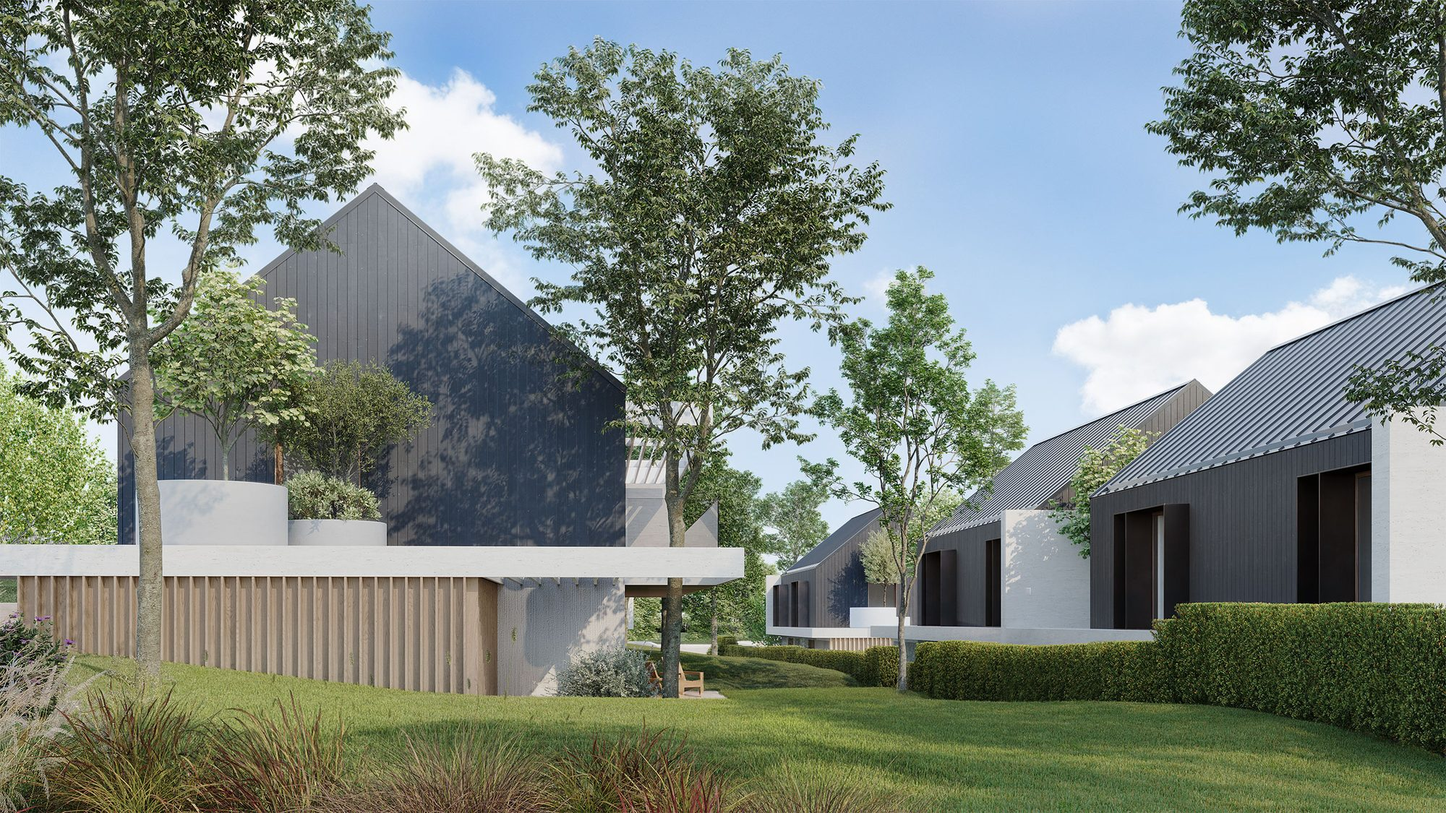
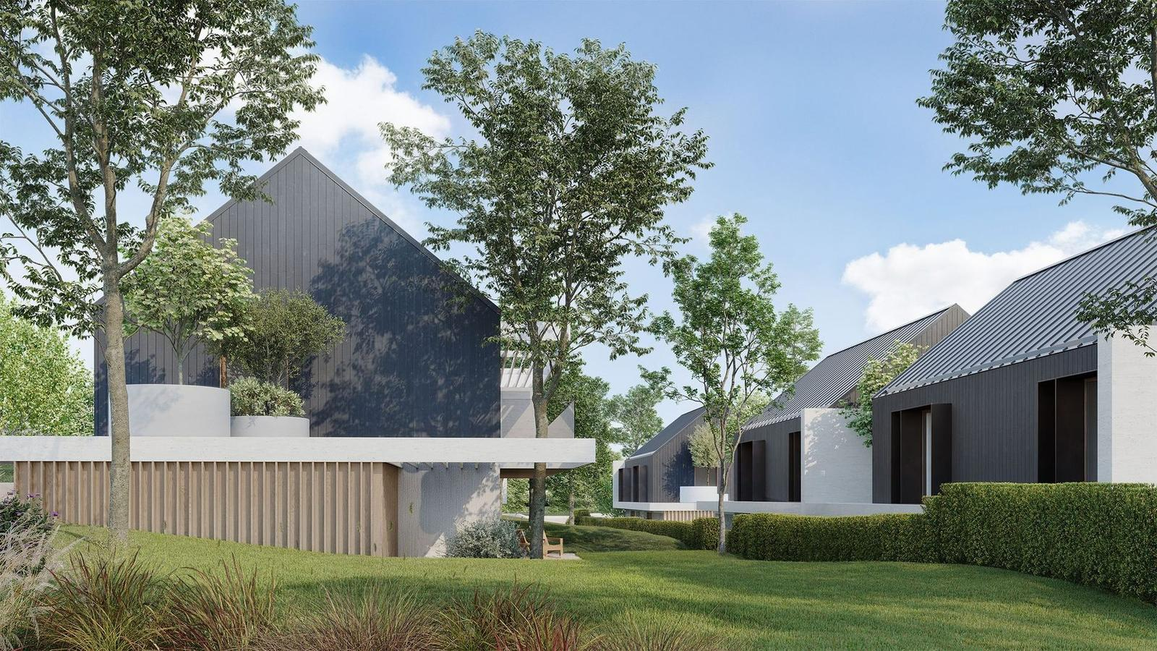
Add Nyon/Geneva proximity to villas intro, drastically compress hero and aerial images, and enable native lazy loading

diff --git a/index.html b/index.html
@@ -91,7 +91,7 @@
     <div class="container text-center">
       <h2 class="sub-title" data-i18n="villas.eyebrow">LES VILLAS</h2>
       <h1 class="main-title" data-i18n="villas.title">L’équilibre parfait entre style et confort</h1>
-      <p class="section-text" data-i18n="villas.intro"><strong>Dernières villas disponibles du domaine :</strong> les <strong>Villas 1, 2 et 3</strong> représentent les ultimes opportunités d'acquérir une propriété d'exception à Trélex. Situées en position dominante sur les parcelles les plus généreuses, elles allient architecture contemporaine, volumes d'exception et vues panoramiques sur le lac Léman, les Alpes et la nature environnante.</p>
+      <p class="section-text" data-i18n="villas.intro"><strong>Dernières villas disponibles du domaine :</strong> les <strong>Villas 1, 2 et 3</strong> représentent les ultimes opportunités d'acquérir une propriété d'exception à Trélex. Situées en position dominante sur les parcelles les plus généreuses avec de vastes jardins privatifs, elles allient architecture contemporaine, volumes d'exception et vues panoramiques sur le lac Léman et les Alpes. Une opportunité rare de profiter d’une qualité de vie incomparable, à seulement 5 minutes de Nyon et 20 minutes de Genève.</p>
 
       <!-- Aerial view: the 3 villas still available are highlighted -->
       <figure class="villas-availability-map">
@@ -137,14 +137,14 @@
               </div>
             </div>
             <div class="triptych-item" data-i18n-attr="title:villa.zoom" title="Cliquer pour agrandir">
-              <img src="assets/villa-1-terrasse.webp" data-i18n-attr="alt:v1.alt2" alt="Villa 1 - Terrasse vitrée et jardin privatif">
+              <img src="assets/villa-1-terrasse.webp" data-i18n-attr="alt:v1.alt2" alt="Villa 1 - Terrasse vitrée et jardin privatif" loading="lazy" decoding="async">
               <span class="triptych-label" data-i18n="v1.img2">Vue face</span>
               <div class="triptych-zoom-btn">
                 <svg width="14" height="14" viewBox="0 0 24 24" fill="none" stroke="currentColor" stroke-width="2.2"><path d="M15 3h6v6M9 21H3v-6M21 3l-7 7M3 21l7-7"/></svg>
               </div>
             </div>
             <div class="triptych-item" data-i18n-attr="title:villa.zoom" title="Cliquer pour agrandir">
-              <img src="assets/villa-2-jardin.webp" data-i18n-attr="alt:v1.alt3" alt="Villa 1 - Jardin privatif de 939 m²">
+              <img src="assets/villa-2-jardin.webp" data-i18n-attr="alt:v1.alt3" alt="Villa 1 - Jardin privatif de 939 m²" loading="lazy" decoding="async">
               <span class="triptych-label" data-i18n="v1.img3">Jardin privatif 939 m²</span>
               <div class="triptych-zoom-btn">
                 <svg width="14" height="14" viewBox="0 0 24 24" fill="none" stroke="currentColor" stroke-width="2.2"><path d="M15 3h6v6M9 21H3v-6M21 3l-7 7M3 21l7-7"/></svg>
@@ -174,7 +174,7 @@
             </div>
             <div class="stacked-locator-box prominent" data-i18n-attr="title:loc.hint_title" title="Cliquer pour localiser sur le plan interactif">
               <div class="locator-thumb-wrap">
-                <img src="assets/atelier-project3.webp" data-i18n-attr="alt:loc.alt1" alt="Emplacement Villa 1 sur plan">
+                <img src="assets/atelier-project3.webp" data-i18n-attr="alt:loc.alt1" alt="Emplacement Villa 1 sur plan" loading="lazy" decoding="async">
               </div>
               <div class="locator-info">
                 <span class="locator-title" data-i18n="loc.title">Emplacement sur le plan</span>
@@ -211,14 +211,14 @@
               </div>
             </div>
             <div class="triptych-item" data-i18n-attr="title:villa.zoom" title="Cliquer pour agrandir">
-              <img src="assets/villa-2-terrasse.webp" data-i18n-attr="alt:v2.alt2" alt="Villa 2 - Terrasse panoramique sur le domaine et les Alpes">
+              <img src="assets/villa-2-terrasse.webp" data-i18n-attr="alt:v2.alt2" alt="Villa 2 - Terrasse panoramique sur le domaine et les Alpes" loading="lazy" decoding="async">
               <span class="triptych-label" data-i18n="v2.img2">Terrasse panoramique</span>
               <div class="triptych-zoom-btn">
                 <svg width="14" height="14" viewBox="0 0 24 24" fill="none" stroke="currentColor" stroke-width="2.2"><path d="M15 3h6v6M9 21H3v-6M21 3l-7 7M3 21l7-7"/></svg>
               </div>
             </div>
             <div class="triptych-item" data-i18n-attr="title:villa.zoom" title="Cliquer pour agrandir">
-              <img src="assets/le-project.jpg" data-i18n-attr="alt:v2.alt3" alt="Villa 2 - Jardin privatif de 499 m²">
+              <img src="assets/le-project.jpg" data-i18n-attr="alt:v2.alt3" alt="Villa 2 - Jardin privatif de 499 m²" loading="lazy" decoding="async">
               <span class="triptych-label" data-i18n="v2.img3">Jardin privatif 499 m²</span>
               <div class="triptych-zoom-btn">
                 <svg width="14" height="14" viewBox="0 0 24 24" fill="none" stroke="currentColor" stroke-width="2.2"><path d="M15 3h6v6M9 21H3v-6M21 3l-7 7M3 21l7-7"/></svg>
@@ -248,7 +248,7 @@
             </div>
             <div class="stacked-locator-box prominent" data-i18n-attr="title:loc.hint_title" title="Cliquer pour localiser sur le plan interactif">
               <div class="locator-thumb-wrap">
-                <img src="assets/atelier-project4.webp" data-i18n-attr="alt:loc.alt2" alt="Emplacement Villa 2 sur plan">
+                <img src="assets/atelier-project4.webp" data-i18n-attr="alt:loc.alt2" alt="Emplacement Villa 2 sur plan" loading="lazy" decoding="async">
               </div>
               <div class="locator-info">
                 <span class="locator-title" data-i18n="loc.title">Emplacement sur le plan</span>
@@ -285,14 +285,14 @@
               </div>
             </div>
             <div class="triptych-item" data-i18n-attr="title:villa.zoom" title="Cliquer pour agrandir">
-              <img src="assets/villa-3-terrasse.webp" data-i18n-attr="alt:v3.alt2" alt="Villa 3 - Terrasse avec vue sur le lac Léman">
+              <img src="assets/villa-3-terrasse.webp" data-i18n-attr="alt:v3.alt2" alt="Villa 3 - Terrasse avec vue sur le lac Léman" loading="lazy" decoding="async">
               <span class="triptych-label" data-i18n="v3.img2">Terrasse &amp; vue lac</span>
               <div class="triptych-zoom-btn">
                 <svg width="14" height="14" viewBox="0 0 24 24" fill="none" stroke="currentColor" stroke-width="2.2"><path d="M15 3h6v6M9 21H3v-6M21 3l-7 7M3 21l7-7"/></svg>
               </div>
             </div>
             <div class="triptych-item" data-i18n-attr="title:villa.zoom" title="Cliquer pour agrandir">
-              <img src="assets/villa-3-jardin.webp" data-i18n-attr="alt:v3.alt3" alt="Villa 3 - Jardin privatif de 541 m²">
+              <img src="assets/villa-3-jardin.webp" data-i18n-attr="alt:v3.alt3" alt="Villa 3 - Jardin privatif de 541 m²" loading="lazy" decoding="async">
               <span class="triptych-label" data-i18n="v3.img3">Jardin privatif 541 m²</span>
               <div class="triptych-zoom-btn">
                 <svg width="14" height="14" viewBox="0 0 24 24" fill="none" stroke="currentColor" stroke-width="2.2"><path d="M15 3h6v6M9 21H3v-6M21 3l-7 7M3 21l7-7"/></svg>
@@ -322,7 +322,7 @@
             </div>
             <div class="stacked-locator-box prominent" data-i18n-attr="title:loc.hint_title" title="Cliquer pour localiser sur le plan interactif">
               <div class="locator-thumb-wrap">
-                <img src="assets/atelier-project5.webp" data-i18n-attr="alt:loc.alt3" alt="Emplacement Villa 3 sur plan">
+                <img src="assets/atelier-project5.webp" data-i18n-attr="alt:loc.alt3" alt="Emplacement Villa 3 sur plan" loading="lazy" decoding="async">
               </div>
               <div class="locator-info">
                 <span class="locator-title" data-i18n="loc.title">Emplacement sur le plan</span>
@@ -349,15 +349,15 @@
         <!-- Col gauche: Masterplan interactif (Grand format proportionnel) -->
         <div class="image-display" id="masterplan-wrapper">
           <div class="map-stage" id="map-stage">
-            <img src="assets/atelier-project0.webp" data-i18n-attr="alt:plan.alt0" alt="Plan Général Domaine de Bellevue" class="active" id="plan-img-0">
-            <img src="assets/atelier-project3.webp" data-i18n-attr="alt:plan.alt1" alt="Lot 1 (en haut à gauche - 939 m²)" id="plan-img-1">
-            <img src="assets/atelier-project4.webp" alt="Lot 2" id="plan-img-2">
-            <img src="assets/atelier-project5.webp" alt="Lot 3" id="plan-img-3">
-            <img src="assets/atelier-project6.webp" alt="Lot 4" id="plan-img-4">
-            <img src="assets/atelier-project1.webp" alt="Lot 5" id="plan-img-5">
-            <img src="assets/atelier-project2.webp" alt="Lot 6" id="plan-img-6">
-            <img src="assets/atelier-project7.webp" alt="Lot 7" id="plan-img-7">
-            <img src="assets/atelier-project8.webp" alt="Lot 8" id="plan-img-8">
+            <img src="assets/atelier-project0.webp" data-i18n-attr="alt:plan.alt0" alt="Plan Général Domaine de Bellevue" class="active" id="plan-img-0" loading="lazy" decoding="async">
+            <img src="assets/atelier-project3.webp" data-i18n-attr="alt:plan.alt1" alt="Lot 1 (en haut à gauche - 939 m²)" id="plan-img-1" loading="lazy" decoding="async">
+            <img src="assets/atelier-project4.webp" alt="Lot 2" id="plan-img-2" loading="lazy" decoding="async">
+            <img src="assets/atelier-project5.webp" alt="Lot 3" id="plan-img-3" loading="lazy" decoding="async">
+            <img src="assets/atelier-project6.webp" alt="Lot 4" id="plan-img-4" loading="lazy" decoding="async">
+            <img src="assets/atelier-project1.webp" alt="Lot 5" id="plan-img-5" loading="lazy" decoding="async">
+            <img src="assets/atelier-project2.webp" alt="Lot 6" id="plan-img-6" loading="lazy" decoding="async">
+            <img src="assets/atelier-project7.webp" alt="Lot 7" id="plan-img-7" loading="lazy" decoding="async">
+            <img src="assets/atelier-project8.webp" alt="Lot 8" id="plan-img-8" loading="lazy" decoding="async">
 
             <!-- Clean Transparent Hotspots (Hovering plan highlights the chart row) -->
             <div class="map-hotspots-layer">
@@ -494,7 +494,7 @@
 
   <!-- FULL-WIDTH CONSTRAINED ZOOM RENDER -->
   <div class="my-zoom-img">
-    <img src="assets/Untitled-design-44-scaled.png" data-i18n-attr="alt:avail.alt" alt="Domaine de Bellevue Trélex - Vue Aérienne">
+    <img src="assets/Untitled-design-44-scaled.png" data-i18n-attr="alt:avail.alt" alt="Domaine de Bellevue Trélex - Vue Aérienne" loading="lazy" decoding="async">
   </div>
 
   <!-- ==========================================
@@ -509,7 +509,7 @@
   </section>
 
   <div class="my-zoom-img">
-    <img src="assets/le-project.jpg" data-i18n-attr="alt:project.alt" alt="Le Projet Domaine de Bellevue">
+    <img src="assets/le-project.jpg" data-i18n-attr="alt:project.alt" alt="Le Projet Domaine de Bellevue" loading="lazy" decoding="async">
   </div>
 
   <!-- ==========================================
@@ -542,15 +542,15 @@
           <tr>
             <th></th>
             <th>
-              <img src="assets/arrows.png" alt="Distance" class="icon" style="height:22px; width:auto; margin:0 auto 4px;">
+              <img src="assets/arrows.png" alt="Distance" class="icon" style="height:22px; width:auto; margin:0 auto 4px;" loading="lazy" decoding="async">
               <span>Distance</span>
             </th>
             <th>
-              <img src="assets/car.png" data-i18n-attr="alt:loc.car_alt" alt="Voiture" class="icon" style="height:22px; width:auto; margin:0 auto 4px;">
+              <img src="assets/car.png" data-i18n-attr="alt:loc.car_alt" alt="Voiture" class="icon" style="height:22px; width:auto; margin:0 auto 4px;" loading="lazy" decoding="async">
               <span data-i18n="loc.car">En voiture</span>
             </th>
             <th>
-              <img src="assets/public-transport.png" data-i18n-attr="alt:loc.transport_alt" alt="Transports publics" class="icon" style="height:22px; width:auto; margin:0 auto 4px;">
+              <img src="assets/public-transport.png" data-i18n-attr="alt:loc.transport_alt" alt="Transports publics" class="icon" style="height:22px; width:auto; margin:0 auto 4px;" loading="lazy" decoding="async">
               <span data-i18n="loc.transport">Transports publics</span>
             </th>
           </tr>
@@ -592,7 +592,7 @@
   </section>
 
   <div class="my-zoom-img">
-    <img src="assets/image01_final-scaled.png" data-i18n-attr="alt:loc.alt" alt="Vue Aérienne Domaine de Bellevue">
+    <img src="assets/image01_final-scaled.png" data-i18n-attr="alt:loc.alt" alt="Vue Aérienne Domaine de Bellevue" loading="lazy" decoding="async">
   </div>
 
   <!-- ==========================================
@@ -612,7 +612,7 @@
         <!-- Slide 1 -->
         <div class="scroll-item">
           <div class="img-wrapper">
-            <img src="assets/3.jpg" data-i18n-attr="alt:life.alt1" alt="Un quartier vivant">
+            <img src="assets/3.jpg" data-i18n-attr="alt:life.alt1" alt="Un quartier vivant" loading="lazy" decoding="async">
           </div>
           <h3 data-i18n="life.h1">UN QUARTIER VIVANT</h3>
           <p data-i18n="life.p1">À proximité de Trélex, profitez d’une grande variété de restaurants et de cafés, mais aussi de commerces, services et lieux de convivialité. Les villes voisines dans la région de Nyon, Genève et Lausanne enrichissent encore l’offre avec une scène culturelle, gastronomique et sociale riche et diversifiée.</p>
@@ -621,7 +621,7 @@
         <!-- Slide 2 -->
         <div class="scroll-item">
           <div class="img-wrapper">
-            <img src="assets/1.jpg" data-i18n-attr="alt:life.alt2" alt="Cadre de vie familial">
+            <img src="assets/1.jpg" data-i18n-attr="alt:life.alt2" alt="Cadre de vie familial" loading="lazy" decoding="async">
           </div>
           <h3 data-i18n="life.h2">CADRE DE VIE FAMILIAL</h3>
           <p data-i18n="life.p2">La proximité d’écoles de haute qualité facilite le quotidien des parents et rassure sur l’avenir des enfants. Une offre variée d’activités, entre sport, culture et espaces verts, crée un cadre sûr et agréable où les plus jeunes peuvent s’épanouir pleinement.</p>
@@ -630,7 +630,7 @@
         <!-- Slide 3 -->
         <div class="scroll-item">
           <div class="img-wrapper">
-            <img src="assets/4.jpg" data-i18n-attr="alt:life.alt3" alt="Une région aux mille plaisirs">
+            <img src="assets/4.jpg" data-i18n-attr="alt:life.alt3" alt="Une région aux mille plaisirs" loading="lazy" decoding="async">
           </div>
           <h3 data-i18n="life.h3">UNE RÉGION AUX MILLE PLAISIRS</h3>
           <p data-i18n="life.p3">Entre lac et montagnes, la région invite à la détente et à l’aventure. Sports nautiques sur le Léman, randonnées alpines, balades à vélo dans la campagne vaudoise et, en hiver, les pistes de ski de St-Cergue à seulement 15 minutes offrent une qualité de vie unique au rythme des saisons.</p>
@@ -639,7 +639,7 @@
         <!-- Slide 4 -->
         <div class="scroll-item">
           <div class="img-wrapper">
-            <img src="assets/2.jpg" data-i18n-attr="alt:life.alt4" alt="Au cœur de la nature">
+            <img src="assets/2.jpg" data-i18n-attr="alt:life.alt4" alt="Au cœur de la nature" loading="lazy" decoding="async">
           </div>
           <h3 data-i18n="life.h4">AU CŒUR DE LA NATURE</h3>
           <p data-i18n="life.p4">Parcours Vita Trélex, à seulement 5 minutes à pied, s’ajoute aux autres parcs et espaces verts des environs, offrant un cadre idéal pour l’exercice, la détente et les activités en plein air. La proximité immédiate de la nature et de la forêt offre un cadre idéal pour les personnes avec des animaux de compagnie et invite à de belles promenades en plein air.</p>
@@ -723,7 +723,7 @@
         <div class="advisor-text-col">
           <h2 class="sub-title" style="text-align: left; margin-bottom: 10px;" data-i18n="advisor.eyebrow">Conseil et vente</h2>
           <div style="margin-bottom: 16px;">
-            <img src="assets/SILVERPINE.png" alt="Silverpine SA" style="max-height: 34px; width: auto;">
+            <img src="assets/SILVERPINE.png" alt="Silverpine SA" style="max-height: 34px; width: auto;" loading="lazy" decoding="async">
           </div>
           <p data-i18n="advisor.text">Silverpine SA est une société d’investissement familiale suisse basée à Nidwald, qui développe des projets immobiliers de premier plan dans le canton de Vaud et en Suisse centrale. Chaque projet est conduit avec précision et engagement, garantissant progrès constant, qualité irréprochable et transparence totale. Au cœur de notre philosophie se trouvent des relations durables avec nos clients et partenaires, fondées sur la confiance, l’intégrité et la collaboration. Nos villas et appartements marient une architecture intemporelle à un confort moderne, pour offrir des lieux de vie uniques et inspirants. Conçus avec des matériaux durables de la plus haute qualité, ils garantissent une valeur pérenne et un bien-être exceptionnel, que ce soit pour des familles ou des particuliers.</p>
           <div class="advisor-links">
@@ -734,7 +734,7 @@
         </div>
 
         <div class="advisor-photo-col">
-          <img src="assets/Daniel-Meister.jpg" alt="Daniel Meister">
+          <img src="assets/Daniel-Meister.jpg" alt="Daniel Meister" loading="lazy" decoding="async">
           <h5>Daniel Meister</h5>
           <span data-i18n="advisor.role">Responsable des projets</span>
         </div>
@@ -751,8 +751,8 @@
       <div class="partners-logos">
         <img src="assets/batineg-batisseurdesolutions-logo.png" alt="Batineg Bâtisseur de solutions">
         <img src="assets/Atelier-logo.png" alt="Atelier">
-        <img src="assets/UBS.png" alt="UBS">
-        <img src="assets/SILVERPINE.png" alt="Silverpine">
+        <img src="assets/UBS.png" alt="UBS" loading="lazy" decoding="async">
+        <img src="assets/SILVERPINE.png" alt="Silverpine" loading="lazy" decoding="async">
       </div>
     </div>
   </div>
@@ -775,7 +775,7 @@
     <div class="lightbox-content">
       <button class="lightbox-close" type="button" data-i18n-attr="aria-label:lb.close" aria-label="Fermer la vue agrandie">&times;</button>
       <div class="lightbox-image-wrap">
-        <img src="" data-i18n-attr="alt:lb.alt" alt="Vue agrandie" id="lightbox-img">
+        <img src="" data-i18n-attr="alt:lb.alt" alt="Vue agrandie" id="lightbox-img" loading="lazy" decoding="async">
       </div>
       <div class="lightbox-bottom-bar">
         <span id="lightbox-caption" class="lightbox-caption"></span>

diff --git a/js/i18n.js b/js/i18n.js
@@ -22,7 +22,7 @@ window.I18N = {
     "form.sent": "Envoyé avec succès",
     "villas.eyebrow": "LES VILLAS",
     "villas.title": "L’équilibre parfait entre style et confort",
-    "villas.intro": "<strong>Dernières villas disponibles du domaine :</strong> les <strong>Villas 1, 2 et 3</strong> représentent les ultimes opportunités d'acquérir une propriété d'exception à Trélex. Situées en position dominante sur les parcelles les plus généreuses, elles allient architecture contemporaine, volumes d'exception et vues panoramiques sur le lac Léman, les Alpes et la nature environnante.",
+    "villas.intro": "<strong>Dernières villas disponibles du domaine :</strong> les <strong>Villas 1, 2 et 3</strong> représentent les ultimes opportunités d'acquérir une propriété d'exception à Trélex. Situées en position dominante sur les parcelles les plus généreuses avec de vastes jardins privatifs, elles allient architecture contemporaine, volumes d'exception et vues panoramiques sur le lac Léman et les Alpes. Une opportunité rare de profiter d’une qualité de vie incomparable, à seulement 5 minutes de Nyon et 20 minutes de Genève.",
     "avail.map_alt": "Vue aérienne du Domaine de Bellevue : les Villas 1, 2 et 3 encore disponibles sont mises en évidence",
     "avail.map_legend": "Villas encore disponibles · Dès CHF 2,75M",
     "avail.map_hint": "Cliquez sur une villa pour la découvrir",
@@ -158,7 +158,7 @@ window.I18N = {
     "form.sent": "Sent successfully",
     "villas.eyebrow": "THE VILLAS",
     "villas.title": "The perfect balance between style and comfort",
-    "villas.intro": "<strong>Last available villas on the estate:</strong> <strong>Villas 1, 2 and 3</strong> represent the final opportunities to acquire an exceptional property in Trélex. Set in a commanding position on the most generous plots, they combine contemporary architecture, exceptional volumes and unique views of Lake Geneva, the Alps and surrounding nature.",
+    "villas.intro": "<strong>Last available villas on the estate:</strong> <strong>Villas 1, 2 and 3</strong> represent the final opportunities to acquire an exceptional property in Trélex. Set in a commanding position on the most generous plots with vast private gardens, they combine contemporary architecture, exceptional volumes and panoramic views of Lake Geneva and the Alps. A rare opportunity to enjoy an incomparable quality of life, just 5 minutes from Nyon and 20 minutes from Geneva.",
     "avail.map_alt": "Aerial view of Domaine de Bellevue: Villas 1, 2 and 3, still available, are highlighted",
     "avail.map_legend": "Villas still available · From CHF 2.75M",
     "avail.map_hint": "Click a villa to explore it",
